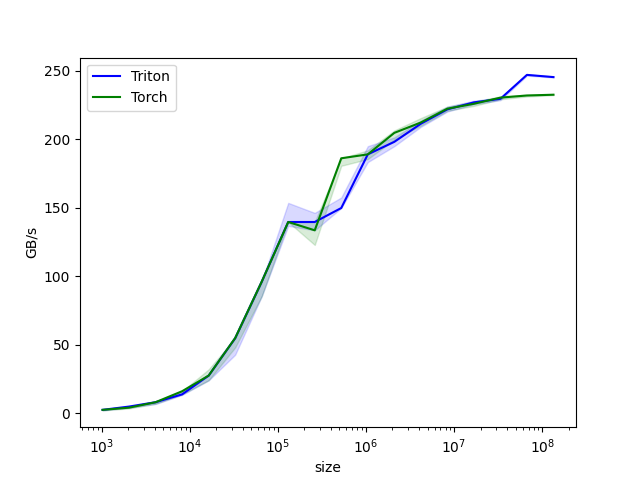
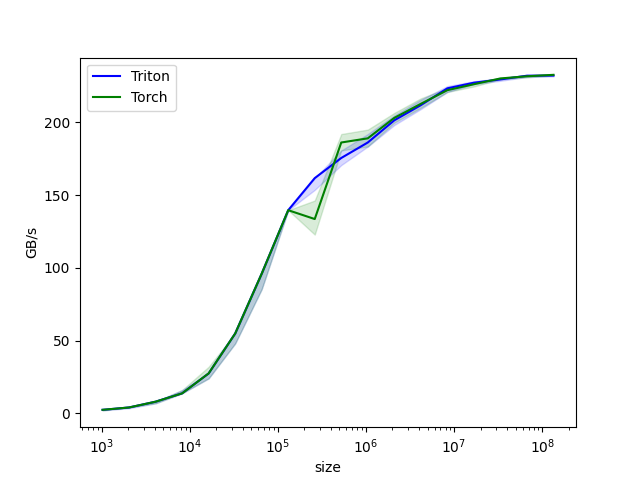
feat: trying different number of bloacks and warps to increase performance

diff --git a/vector_addition_kernel.py b/vector_addition_kernel.py
@@ -62,18 +62,18 @@ def vector_addition(a: torch.Tensor, b: torch.Tensor) -> torch.Tensor:
     output_buffer = torch.empty_like(a)
     assert a.is_cuda and b.is_cuda
     num_elems = a.numel()
-    assert num_elems == b.numel() #  TODO: handle mismatched sizes
+    assert num_elems == b.numel()
     
-    block_size = 128
+    # block_size = 128
+    block_size = 1024 # trying a bigger size
     grid_size = ceil_div(num_elems, block_size)
-    
+    num_warps = 8
     grid = (grid_size, )
-    k2 = kernel_vector_addition[grid](a, b, output_buffer, num_elems, block_size=block_size)
+    k2 = kernel_vector_addition[grid](a, b, output_buffer, num_elems, block_size=block_size, num_warps=num_warps)
     return output_buffer
 
 def verify_numerical_fidelity():
-    # verify numerical fidelity
-    torch.manual_seed(0) # set seed for reproducibility, seed on both CPU and GPU
+    torch.manual_seed(2020) # set seed for reproducibility, seed on both CPU and GPU
     vector_size = 8192
     a = torch.randn(vector_size).cuda()
     b = torch.randn(vector_size).cuda()
